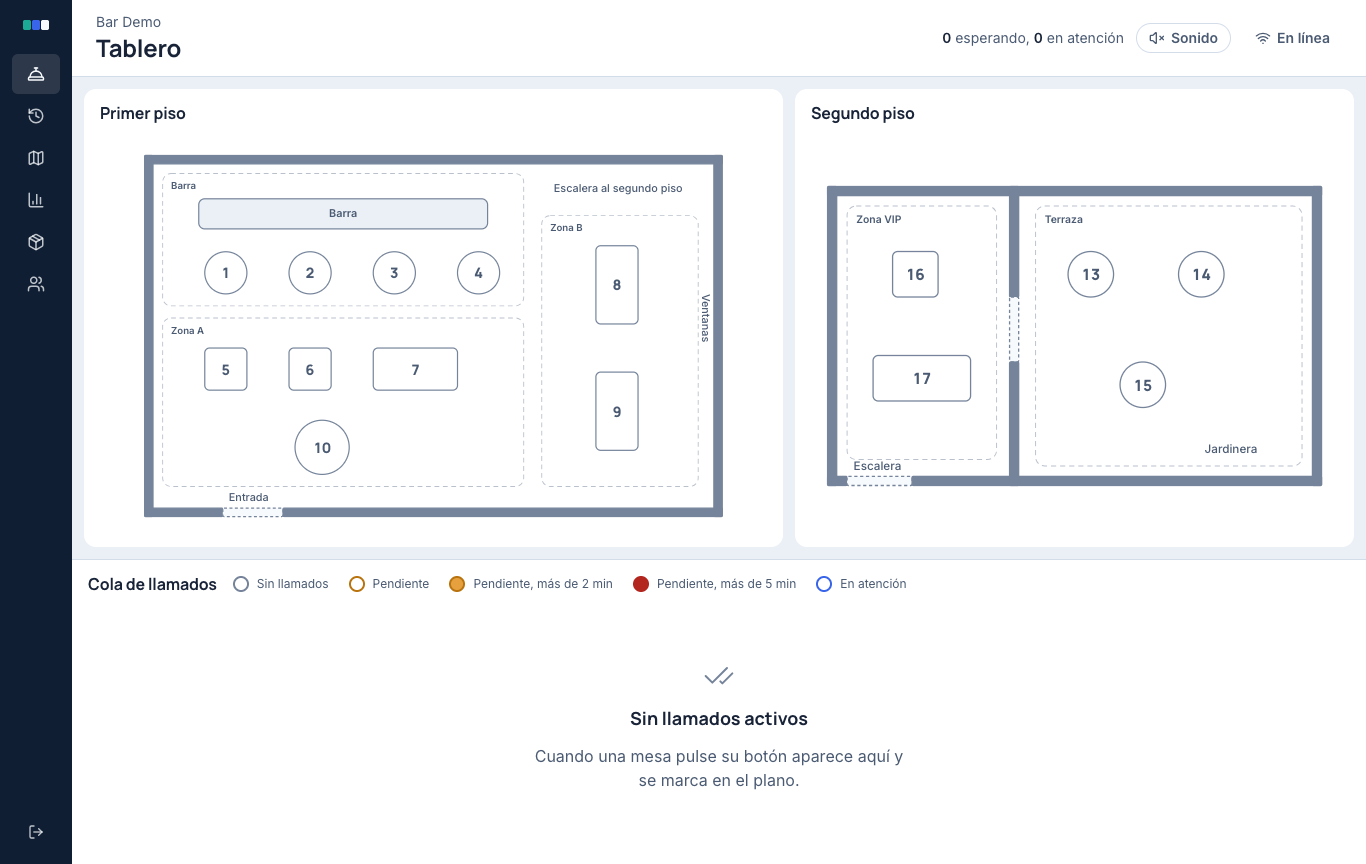
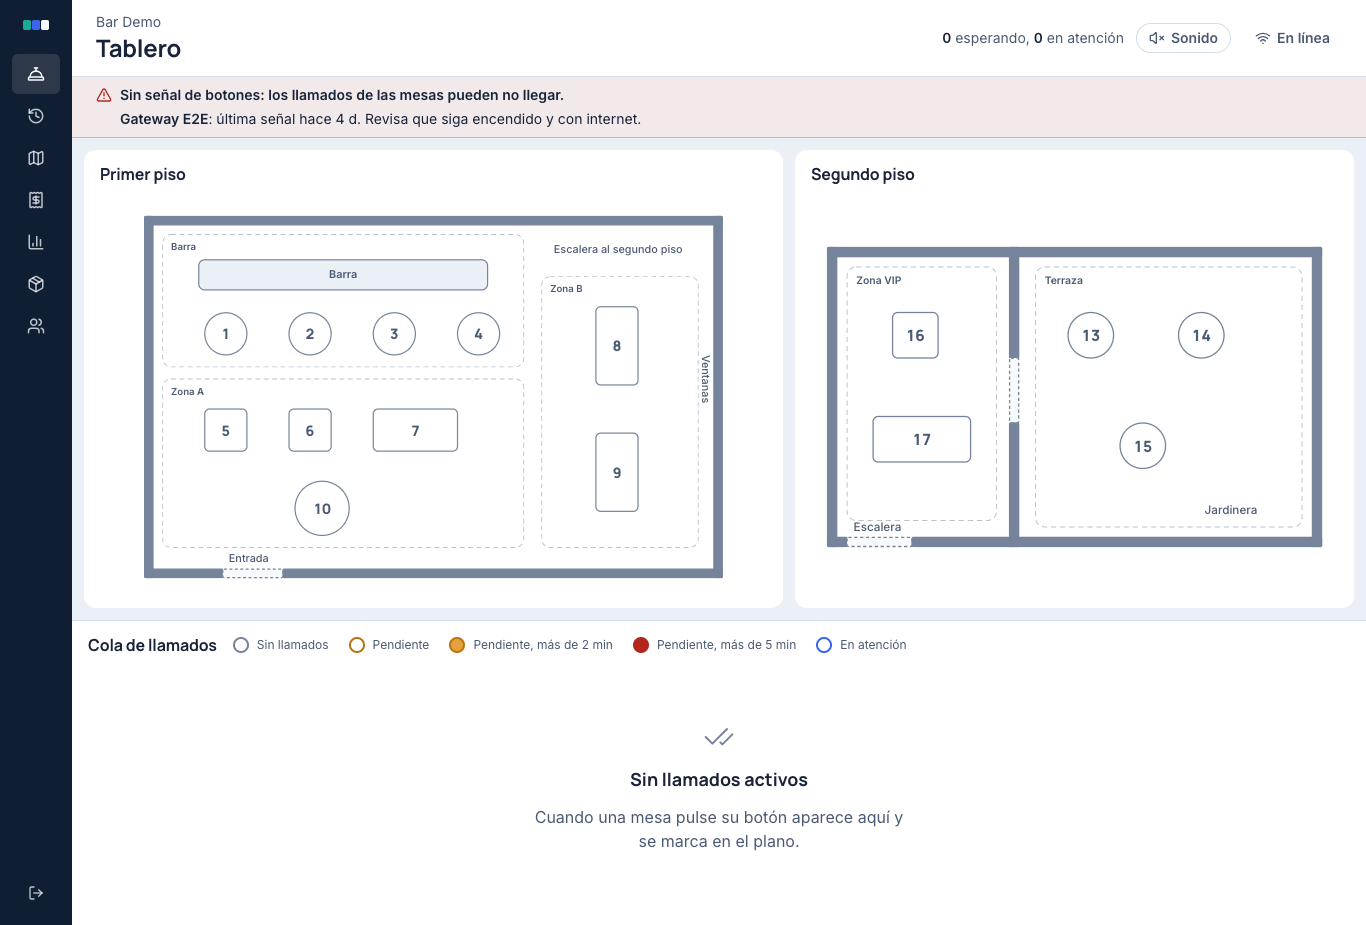
docs(pantallazos): Ventas de Bar Demo, Caja 1 y Tienda Demo

diff --git a/docs/pantallazos/README.md b/docs/pantallazos/README.md
@@ -4,15 +4,17 @@ Generados por `e2e/screens.spec.ts` contra la demo de Docker (`pnpm exec playwri
 Para capturas limpias, correrla sobre una demo recién sembrada (`scripts/demo-reset.sh`) antes que el resto de los E2E, que dejan productos y lugares «E2E …». El «Gateway E2E» de la consola lo crea `e2e/global-setup.ts`.
 Cada carpeta muestra solo las vistas del menú que el portal le arma a ese usuario según sus permisos, más las pestañas de cada pantalla y el historial completo de inventario (`*-inventario-historial.png`). Todo con datos reales de la API sobre la demo sembrada.
 
-No hay un rol «cajero»: los roles por local son `admin`, `staff` e `inventory` (`core-contracts/permissions.ts`). Barra y meseros comparten el rol `staff` y, por eso, la misma pantalla; en celular el plano se oculta y cada llamado lleva su botón en la cola.
+Roles por local: `admin`, `staff`, `inventory` y `cashier` («Caja», POS-001 §5; `core-contracts/permissions.ts`). Barra y meseros comparten el rol `staff` y, por eso, la misma pantalla; en celular el plano se oculta y cada llamado lleva su botón en la cola.
 
 | Carpeta | Usuario | Rol | Vistas |
 |---|---|---|---|
-| `bar-demo-admin/` | Administrador | admin | Tablero, Historial, Espacios, Métricas, Inventario, Usuarios |
+| `bar-demo-admin/` | Administrador | admin | Tablero, Historial, Espacios, Ventas (Vender, Por mesa, Catálogo, Historial), Métricas, Inventario, Usuarios |
 | `bar-demo-barra/` | Barra | staff | Tablero, Historial |
 | `bar-demo-mesero1/` | Mesero 1 | staff | Tablero, Historial |
 | `bar-demo-inventario1/` | Inventario 1 | inventory | Métricas, Inventario (pestaña «Lugares de stock»: gestiona productos y lugares, no motivos; DATA-001 §2) |
-| `bar-demo-pisos-admin/` | Administrador de Bar Demo Pisos | admin | Las del admin, en otro negocio |
+| `bar-demo-caja1/` | Caja 1 | cashier | Ventas (Vender e Historial; sin «Por mesa» porque no lee las mesas) |
+| `bar-demo-pisos-admin/` | Administrador de Bar Demo Pisos | admin | Las del admin, en otro negocio sin POS (sin Ventas) |
+| `tienda-demo-admin/` | Administrador de Tienda Demo | admin | Negocio solo POS: Ventas (Vender, Catálogo, Historial) y Usuarios |
 | `labs-superadmin/` | Superadmin | plataforma | Consola (sin negocio y actuando en Bar Demo) |
 | `llamados/` | Barra y Mesero 1 | staff | Tablero con las 15 mesas llamando y 3 en atención: escritorio recién pulsado y con el reloj adelantado 6 min (más de 5 min), celular 390×844 a los 3 min (pantalla y página completa). Los llamados se cierran al final |
 | `login/` | — | — | Portada (`00-portada.png`, `/`: elegir negocio) y pantalla de entrada de cada negocio |
